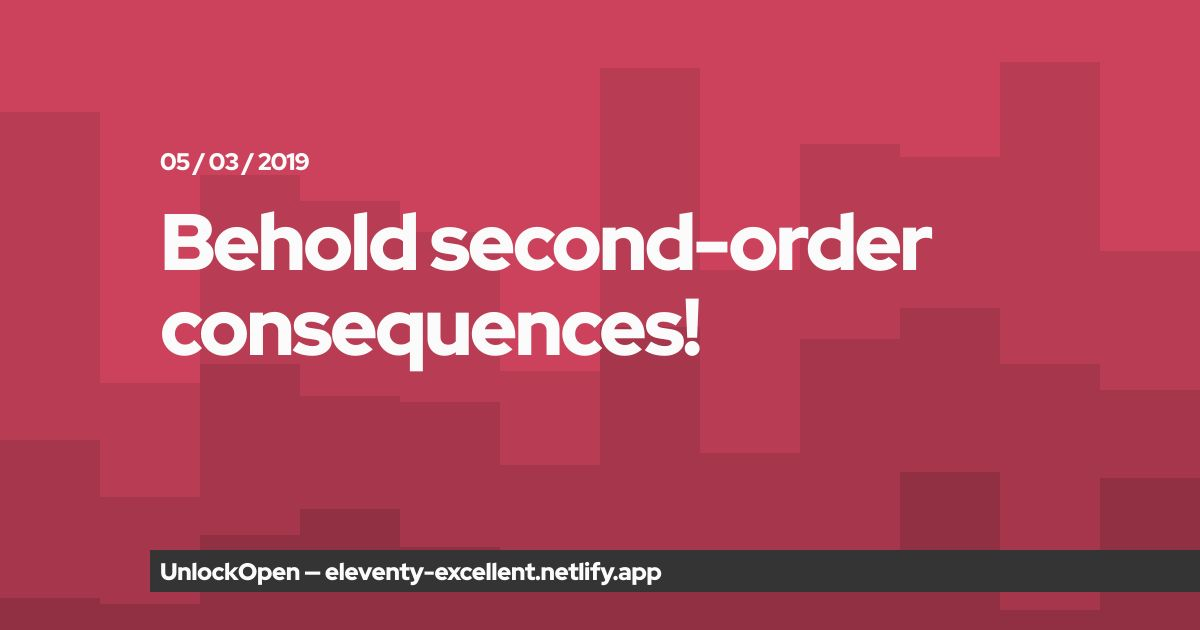
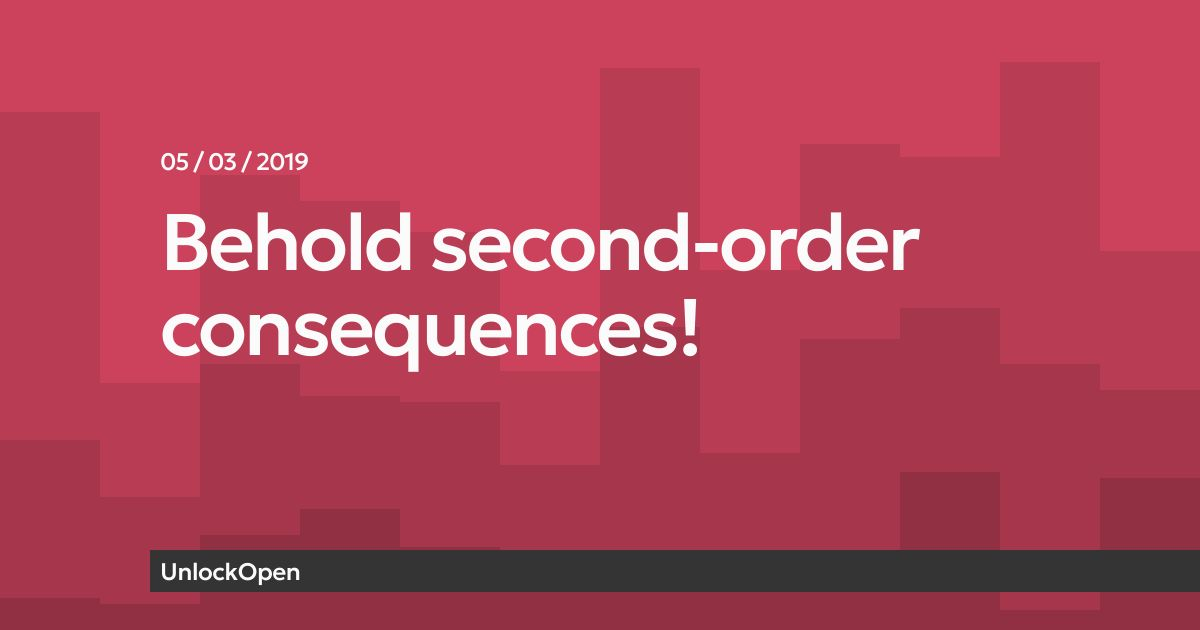
update OG images for articles and brand font

diff --git a/README.md b/README.md
@@ -3,3 +3,12 @@
 V4 of the UnlockOpen website
 
 Preview: https://unlockopen-com-v4.netlify.app/
+
+## OG Image Font Requirement
+
+For OG images to render correctly, **Geologica Medium (500)** must be installed on the system.
+
+**Geologica** is available at:
+
+- **Google Fonts**: [Geologica](https://fonts.google.com/specimen/Geologica)
+- **GitHub**: [Geologica Repository](https://github.com/googlefonts/geologica/tree/main/fonts)
